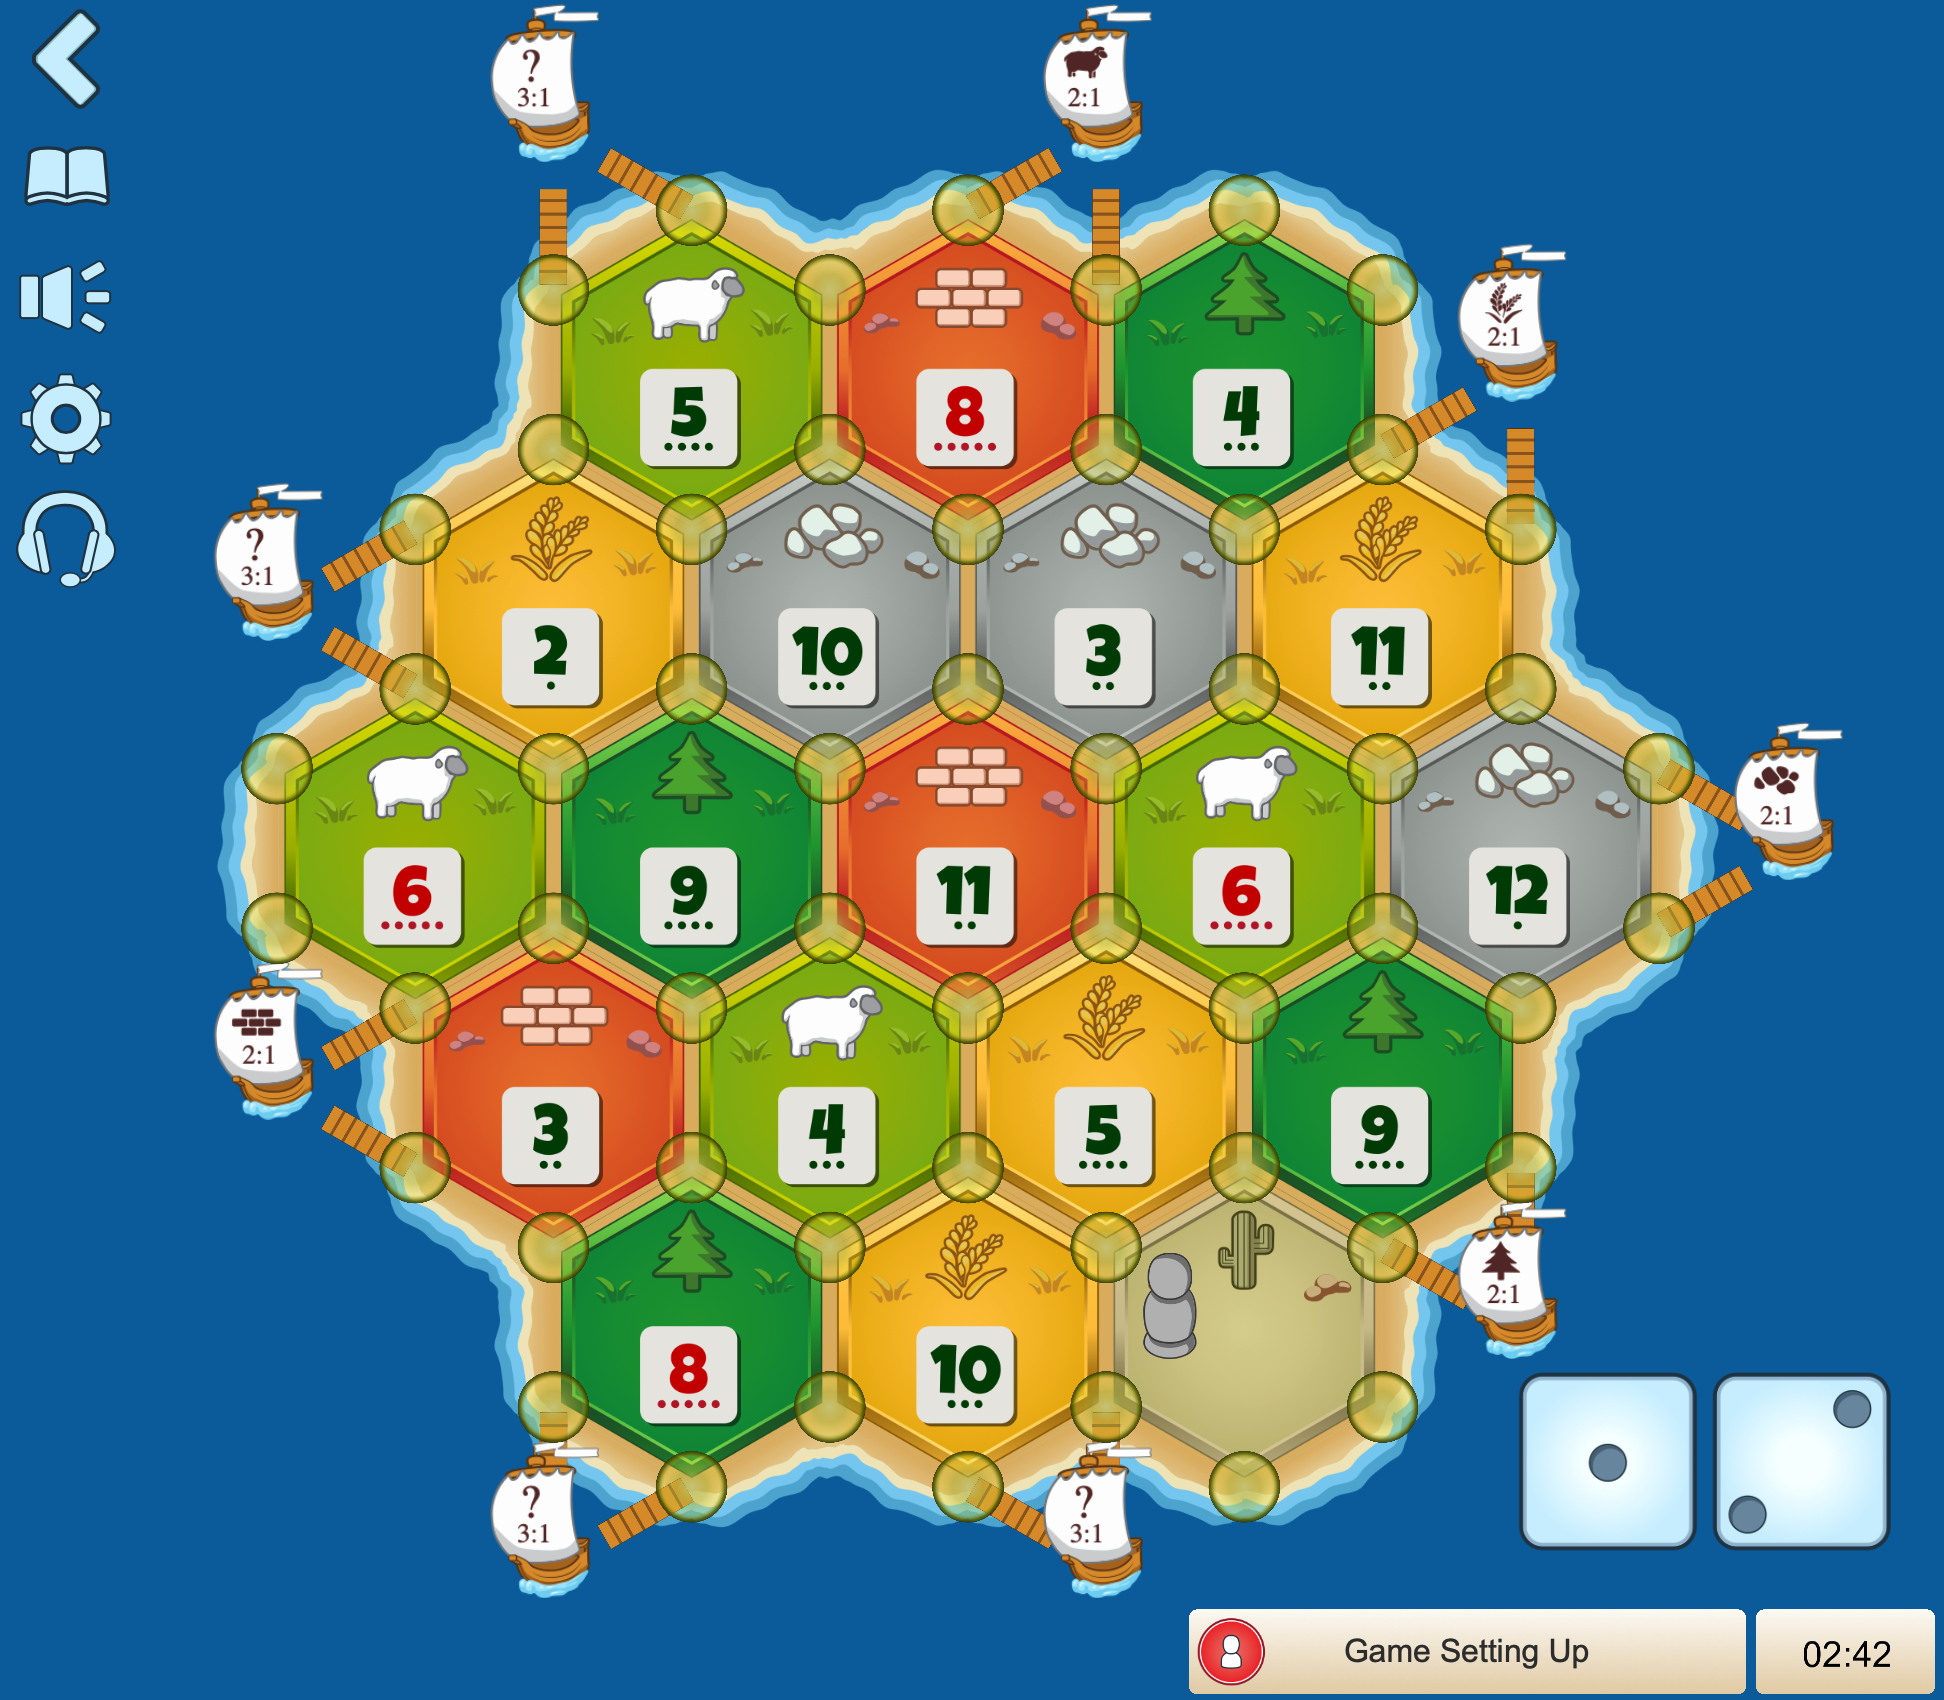
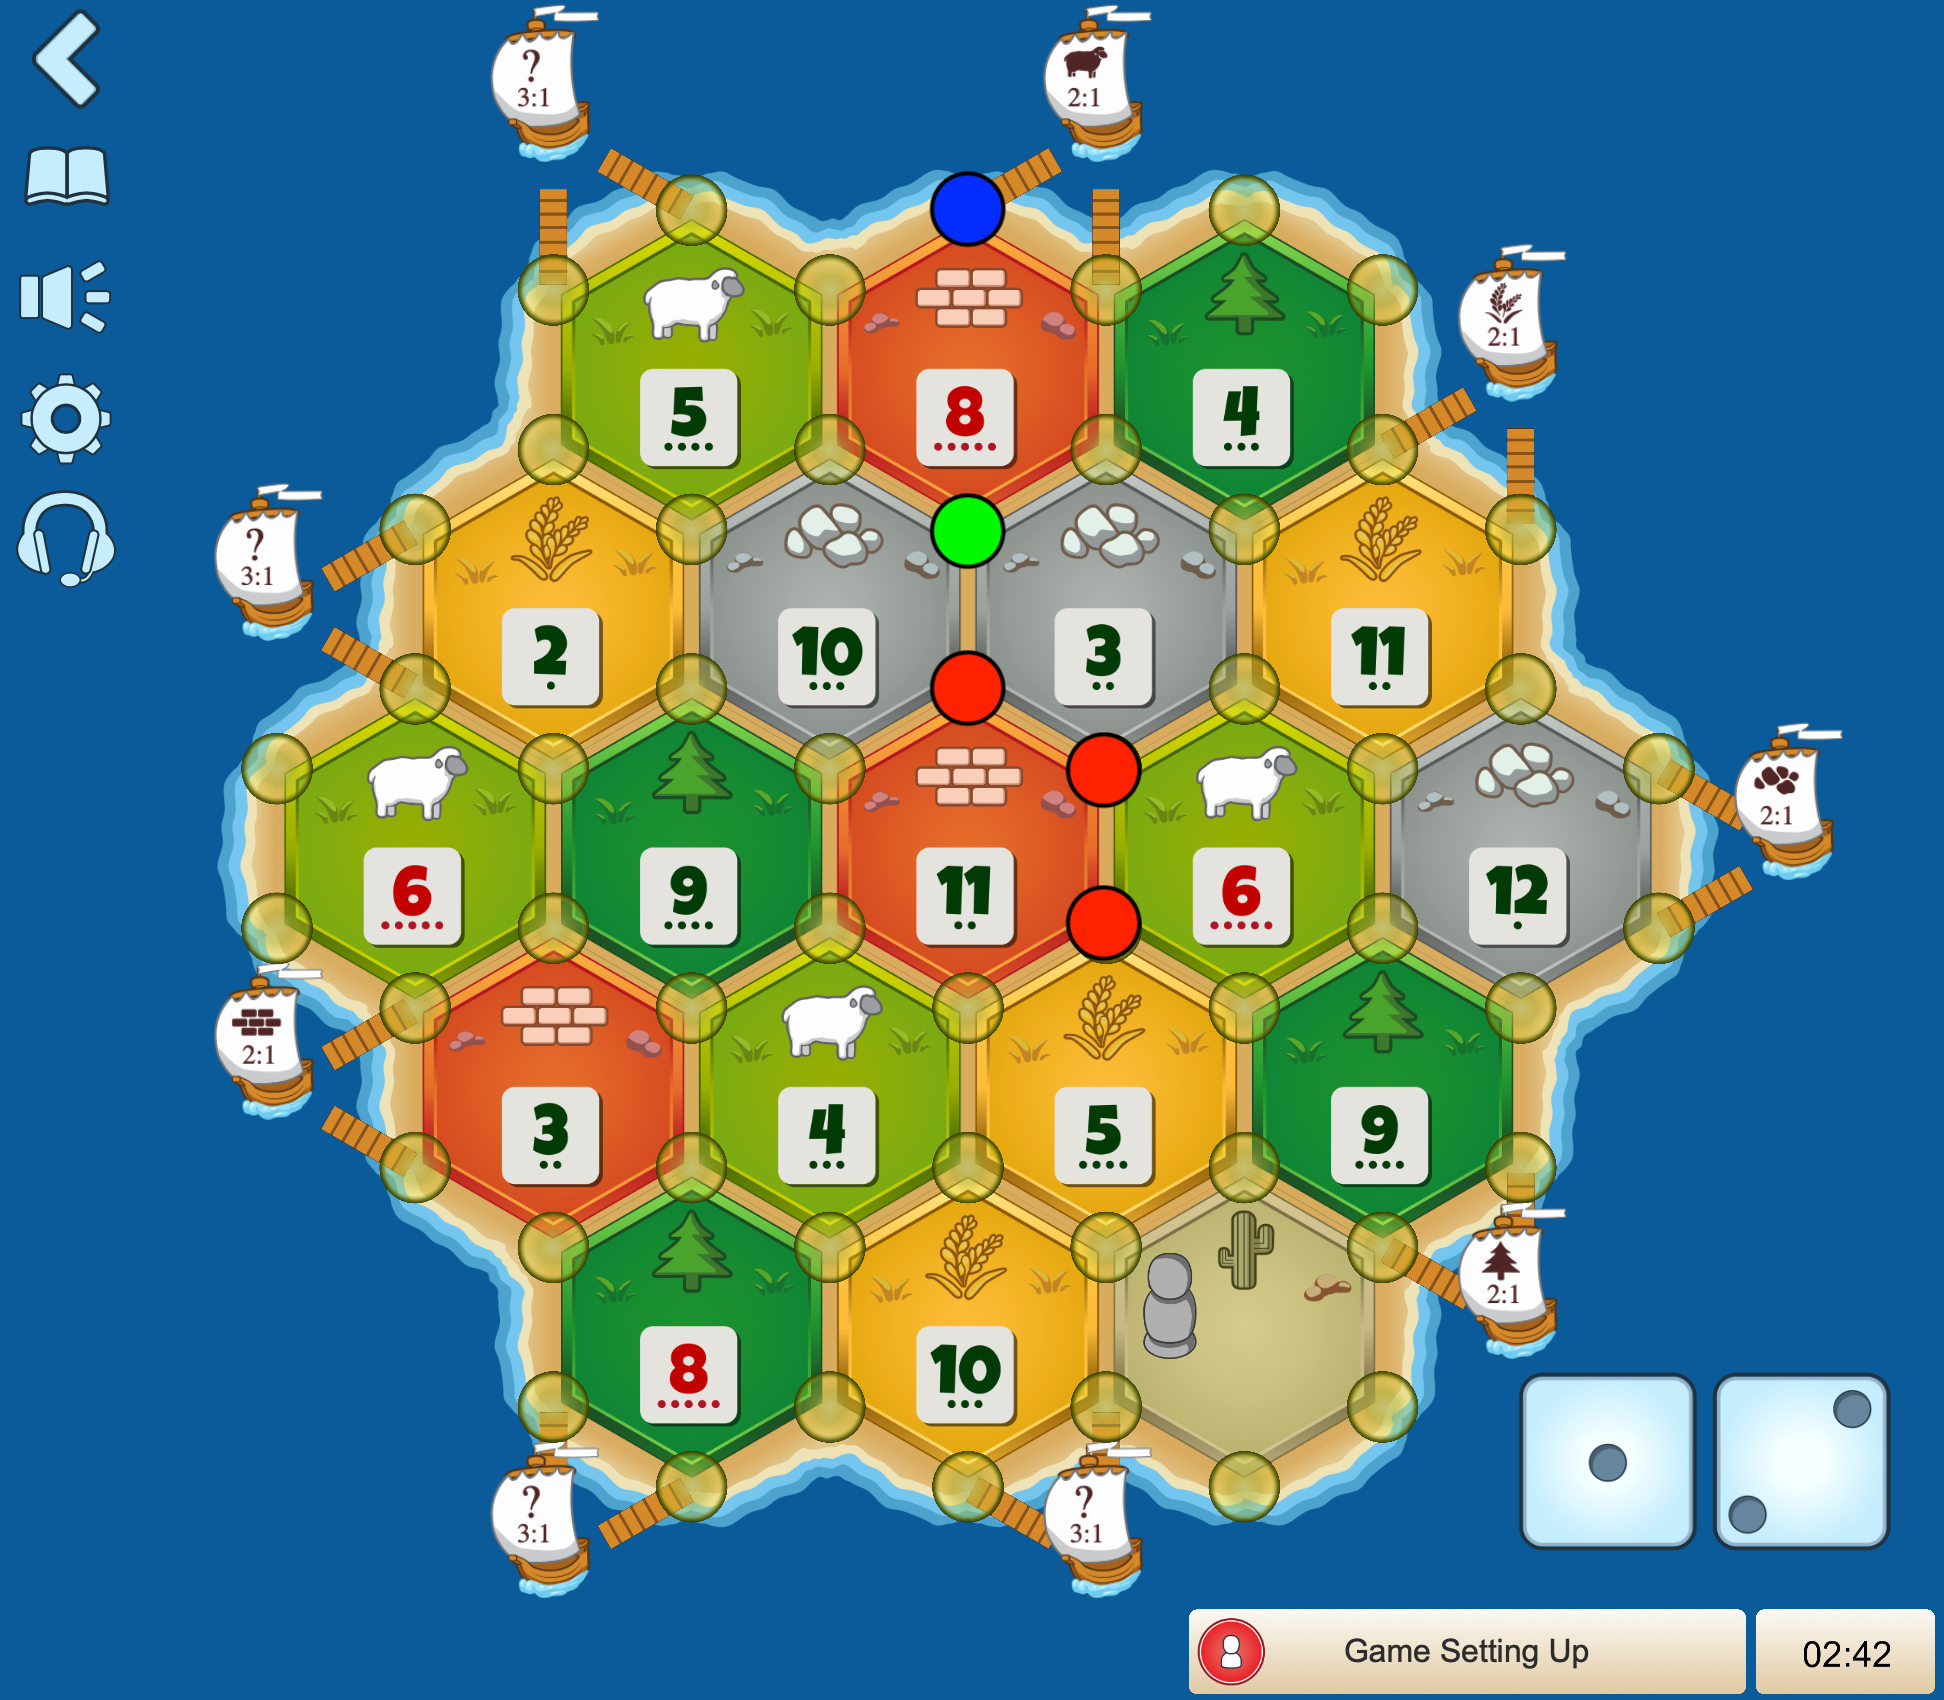
started working on building location

diff --git a/ColonizerMain.py b/ColonizerMain.py
@@ -38,31 +38,31 @@ print(selectedGameBoard)
 hexTiles = pd.DataFrame(
     [
         # Row 1
-        [selectedGameBoard.iloc[0, 1], -2, -4, 0],
-        [selectedGameBoard.iloc[0, 2], 0, -4, 0],
-        [selectedGameBoard.iloc[0, 3], 2, -4, 0],
+        [selectedGameBoard.iloc[0, 1], -2, -4, 3, 0],
+        [selectedGameBoard.iloc[0, 2], 0, -4, 3, 0],
+        [selectedGameBoard.iloc[0, 3], 2, -4, 3, 0],
         # Row 2
-        [selectedGameBoard.iloc[0, 4], -3, -2, 0],
-        [selectedGameBoard.iloc[0, 5], -1, -2, 0],
-        [selectedGameBoard.iloc[0, 6], 1, -2, 0],
-        [selectedGameBoard.iloc[0, 7], 3, -2, 0],
+        [selectedGameBoard.iloc[0, 4], -3, -2, 3, 0],
+        [selectedGameBoard.iloc[0, 5], -1, -2, 2, 0],
+        [selectedGameBoard.iloc[0, 6], 1, -2, 2, 0],
+        [selectedGameBoard.iloc[0, 7], 3, -2, 3, 0],
         # Row 3
-        [selectedGameBoard.iloc[0, 8], -4, 0, 0],
-        [selectedGameBoard.iloc[0, 9], -2, 0, 0],
-        [selectedGameBoard.iloc[0, 10], 0, 0, 0],
-        [selectedGameBoard.iloc[0, 11], 2, 0, 0],           
-        [selectedGameBoard.iloc[0, 12], 4, 0, 0],
+        [selectedGameBoard.iloc[0, 8], -4, 0, 3, 0],
+        [selectedGameBoard.iloc[0, 9], -2, 0, 2, 0],
+        [selectedGameBoard.iloc[0, 10], 0, 0, 1, 0],
+        [selectedGameBoard.iloc[0, 11], 2, 0, 2, 0],           
+        [selectedGameBoard.iloc[0, 12], 4, 0, 3, 0],
         # Row 4
-        [selectedGameBoard.iloc[0, 13], -3, 2, 0],
-        [selectedGameBoard.iloc[0, 14], -1, 2, 0],
-        [selectedGameBoard.iloc[0, 15], 1, 2, 0],
-        [selectedGameBoard.iloc[0, 16], 3, 2, 0],
+        [selectedGameBoard.iloc[0, 13], -3, 2, 3, 0],
+        [selectedGameBoard.iloc[0, 14], -1, 2, 2, 0],
+        [selectedGameBoard.iloc[0, 15], 1, 2, 2, 0],
+        [selectedGameBoard.iloc[0, 16], 3, 2, 3, 0],
         # Row 5
-        [selectedGameBoard.iloc[0, 17], -2, 4, 0],
-        [selectedGameBoard.iloc[0, 18], 0, 4, 0],
-        [selectedGameBoard.iloc[0, 19], 2, 4, 0], 
+        [selectedGameBoard.iloc[0, 17], -2, 4, 3, 0],
+        [selectedGameBoard.iloc[0, 18], 0, 4, 3, 0],
+        [selectedGameBoard.iloc[0, 19], 2, 4, 3, 0], 
     ],
-    columns = ['hexResource', 'xHexOffset', 'yHexOffset', 'diceNumber']
+    columns = ['hexResource', 'xHexOffset', 'yHexOffset', 'ring', 'diceNumber']
 )
 
 # Ports
@@ -103,7 +103,51 @@ for index, row in diceAssignmentOrder.iterrows():
         diceCounter += 1
     else:
         hexTiles.loc[(hexTiles['xHexOffset'] == row['xHexOffset']) & (hexTiles['yHexOffset'] == row['yHexOffset']), 'diceNumber'] = 0
-        
+
+#%% Hex coordinates by ring
+HexOrder = pd.DataFrame(
+    [
+        # Inner ring, 1 hex
+        [1, 0, 0],
+        # Center ring, 6 hexes
+        [2, 1, -2],
+        [2, 2, 0],
+        [2, 1, 2],
+        [2, -1, 2],
+        [2, -2, 0],
+        [2, -1, -2],
+        # Outer ring, 12 hexes
+        [3, 0, -4],
+        [3, 2, -4],
+        [3, 3, -2],
+        [3, 4, 0],
+        [3, 3, 2],
+        [3, 2, 4],
+        [3, 0, 4],
+        [3, -2, 4],
+        [3, -3, 2],
+        [3, -4, 0],
+        [3, -3, -2],
+        [3, -2, -4]
+    ],
+    columns = ['Ring', 'xHexOffset', 'yHexOffset']
+)
+
+#%% Init empty settlement/city spaces
+buildingLocationArray = []
+buildingNumber = 1
+ringSize = [6, 18, 30] # The inner ring has 6 buildable locations, center ring has 18, outer ring has 30
+
+for ring in range(3):
+    for buildingInRing in range(ringSize[ring]):
+        buildingLocationArray.append([buildingNumber, ring + 1, buildingInRing + 1])
+        buildingNumber += 1
+
+buildingLocation = pd.DataFrame(buildingLocationArray, columns = ['BuildingNum', 'Ring', 'RingBuildingNum'])
+
+print(buildingLocation)
+## need to start the (up to) three buildings assgnment
+
 #%%
 def BoardModule():
     
